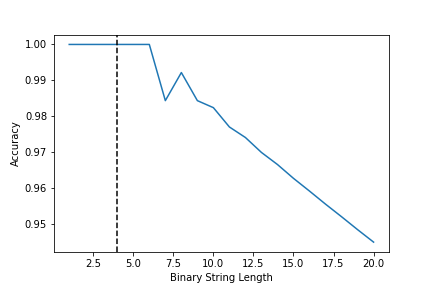
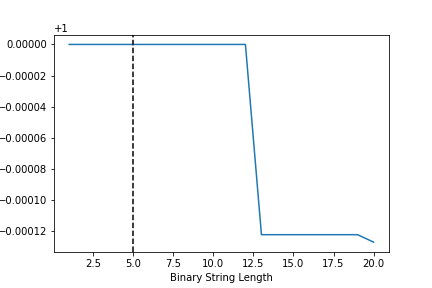
add experiments, change best hyperparameters

diff --git a/driver_parity.py b/driver_parity.py
@@ -33,12 +33,12 @@ dev = torch.device("cuda") if torch.cuda.is_available() else torch.device("cpu")
 def main():
     # Build the model and put it on the GPU
     logging.info("Building model")
-    model = ParityLSTM(hidden_dim=1,
-                       num_layers=2)
+    model = ParityLSTM(hidden_dim=4,
+                       num_layers=1)
     model.to(dev)  # move to GPU if cuda is enabled
 
     logging.info("Training model")
-    maximum_training_sequence_length = 4
+    maximum_training_sequence_length = 5
     train = Parity(split='train', max_length=maximum_training_sequence_length)
     train_loader = DataLoader(train, batch_size=100, shuffle=True, collate_fn=pad_collate)
     train_model(model, train_loader)
@@ -94,8 +94,8 @@ class ParityLSTM(torch.nn.Module):
         # Get output from hidden state of LSTM
         out = out[rs, si, :]
 
-        # Pass through relu activation (was required for training larger sequence) and then pass to fully-connected
-        out = self.fc1(F.relu(out))
+        # Pass to fully-connected layer
+        out = self.fc1(out)
 
         return out
 
@@ -121,8 +121,8 @@ class ParityLSTM(torch.nn.Module):
         # Get output from hidden state of LSTM
         out = out[rs, si, :]
 
-        # Pass through relu activation (was required for training larger sequence) and then pass to fully-connected
-        out = self.fc1(F.relu(out))
+        # Pass to fully-connected layer
+        out = self.fc1(out)
 
         return out
 
